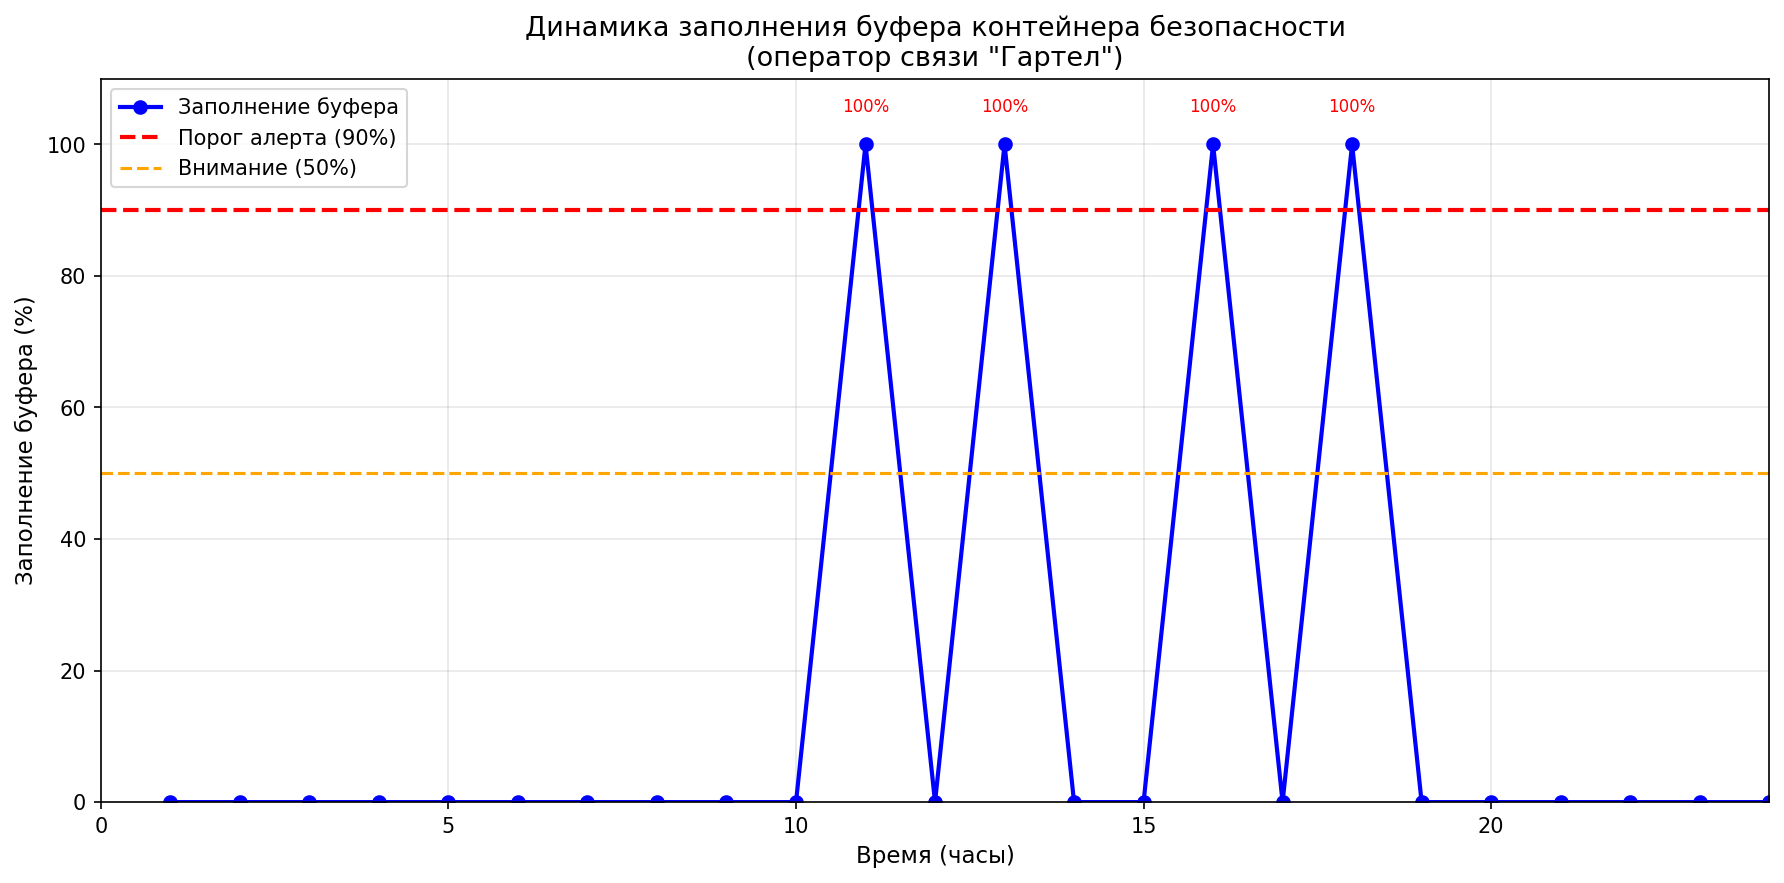
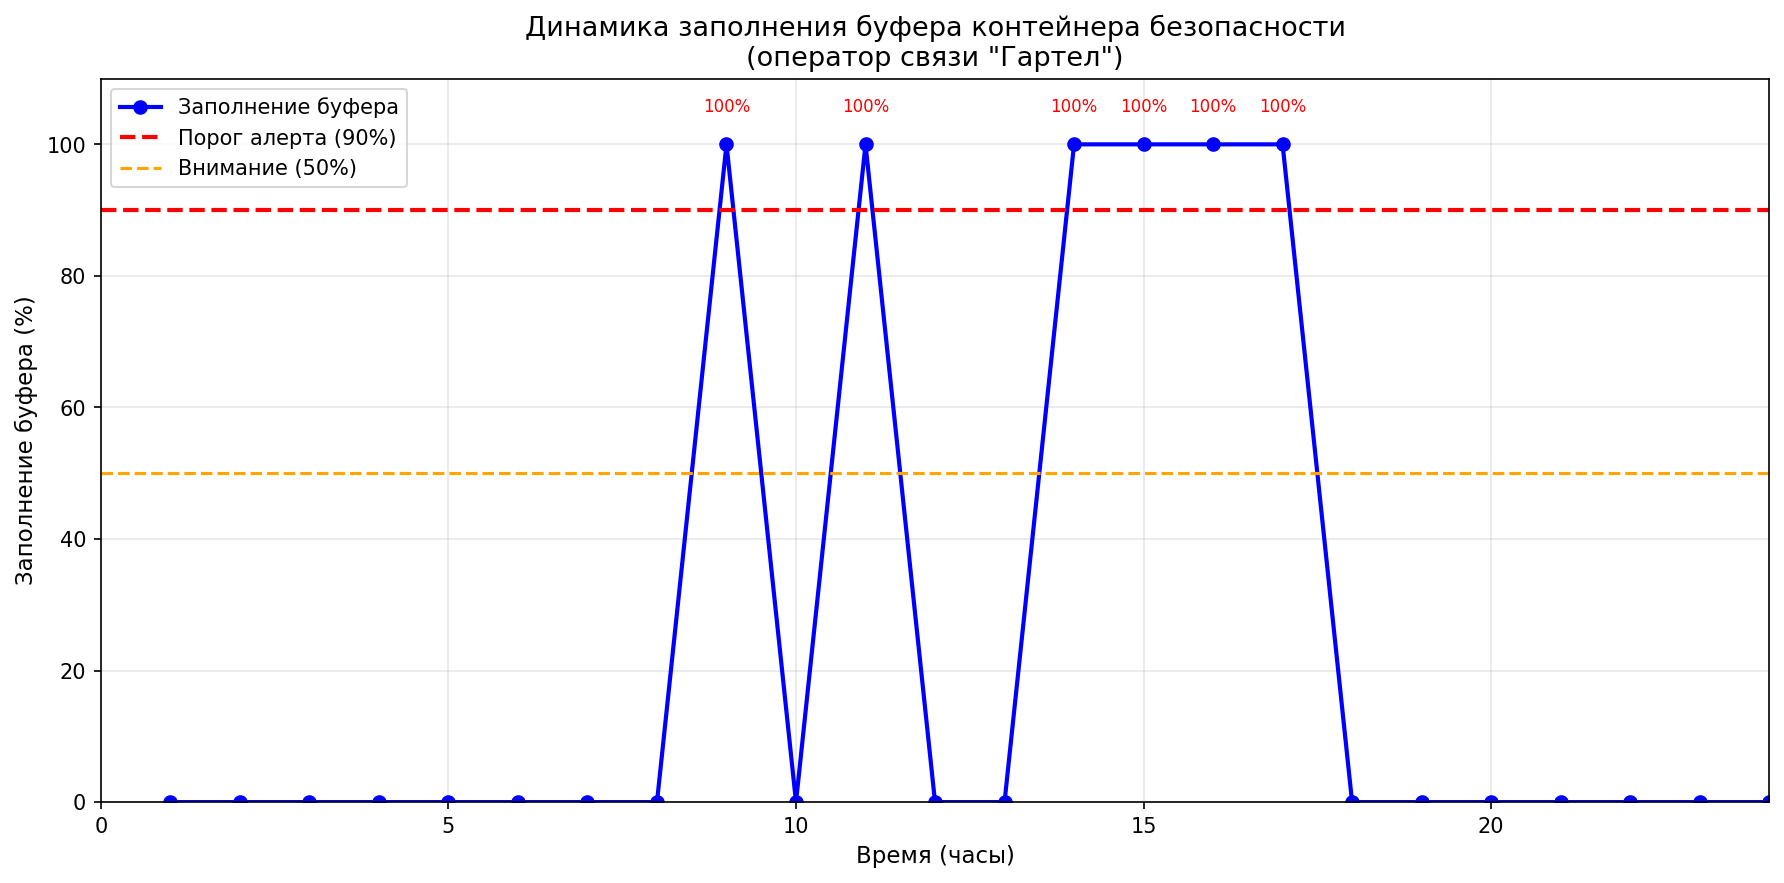
Инд.часть ИЗМЕНЕНИЕ №3

diff --git a/individual.py b/individual.py
@@ -180,7 +180,135 @@ table_daily = list(zip(days, incoming, blocked, passed, efficiency))
 df_daily = pd.DataFrame(table_daily, columns=['День', 'Входящие', 'Заблокировано', 'Пропущено', 'Эффективность %'])
 print(df_daily.to_string(index=False))
 
+# =============================================
+# 5. ВИЗУАЛИЗАЦИЯ РЕЗУЛЬТАТОВ (3 ГРАФИКА)
+# =============================================
 
+print("\n5. ВИЗУАЛИЗАЦИЯ РЕЗУЛЬТАТОВ")
+print("-" * 40)
+
+plt.rcParams['font.size'] = 10
+plt.rcParams['axes.titlesize'] = 12
+
+# ГРАФИК 1: Только динамика заполнения буфера (линейный график)
+fig1, ax1 = plt.subplots(figsize=(12, 6))
+
+time_points = list(range(1, 25))
+
+# Заполнение буфера (в процентах от максимальной емкости)
+buffer_percent = [min(100, (b / BUFFER_CAPACITY) * 100) for b in buffer_usage]
+
+ax1.plot(time_points, buffer_percent, 'b-o', linewidth=2, markersize=6, label='Заполнение буфера')
+ax1.axhline(y=90, color='red', linestyle='--', linewidth=2, label='Порог алерта (90%)')
+ax1.axhline(y=50, color='orange', linestyle='--', linewidth=1.5, label='Внимание (50%)')
+
+ax1.set_xlabel('Время (часы)', fontsize=11)
+ax1.set_ylabel('Заполнение буфера (%)', fontsize=11)
+ax1.set_title('Динамика заполнения буфера контейнера безопасности\n(оператор связи "Гартел")', fontsize=13)
+ax1.legend(loc='upper left')
+ax1.grid(True, alpha=0.3)
+ax1.set_xlim(0, 24)
+ax1.set_ylim(0, 110)
+
+for i, (hour, percent) in enumerate(zip(time_points, buffer_percent)):
+    if percent > 90:
+        ax1.annotate(f'{percent:.0f}%', xy=(hour, percent), xytext=(hour, percent+5),
+                    fontsize=8, ha='center', color='red')
+
+plt.tight_layout()
+plt.savefig('buffer_dynamics.png', dpi=150, bbox_inches='tight')
+print("График 1 сохранен: buffer_dynamics.png")
+
+
+# ГРАФИК 2: Скорость потока vs порог срабатывания
+fig2, ax2 = plt.subplots(figsize=(12, 6))
+
+hours_plot = list(range(1, 25))
+loads_plot = hourly_load
+threshold_plot = [RATE_LIMIT_PER_SEC] * 24
+
+colors = ['red' if l > RATE_LIMIT_PER_SEC else 'green' for l in loads_plot]
+
+ax2.bar(hours_plot, loads_plot, color=colors, alpha=0.7, label='Входящий поток')
+ax2.plot(hours_plot, threshold_plot, 'b--', linewidth=2, label=f'Порог ({RATE_LIMIT_PER_SEC} зап/сек)', marker='s', markersize=4)
+
+for i, load in enumerate(loads_plot):
+    if load > RATE_LIMIT_PER_SEC:
+        ax2.fill_between([i+1, i+1.8], RATE_LIMIT_PER_SEC, load, alpha=0.3, color='red')
+
+ax2.set_xlabel('Время (часы)', fontsize=11)
+ax2.set_ylabel('Скорость потока (записей/сек)', fontsize=11)
+ax2.set_title('Мониторинг скорости потока данных\n(активация буферизации при превышении порога)', fontsize=13)
+ax2.legend(loc='upper right')
+ax2.grid(True, alpha=0.3)
+
+ax2.annotate('Активация буфера', xy=(14, 2350), xytext=(15, 3000),
+             arrowprops=dict(arrowstyle='->', color='red', lw=1.5),
+             fontsize=10, color='red')
+
+plt.tight_layout()
+plt.savefig('flow_rate_monitoring.png', dpi=150, bbox_inches='tight')
+print("График 2 сохранен: flow_rate_monitoring.png")
+
+# ГРАФИК 3: Эффективность защиты (столбчатая диаграмма)
+fig3, ax3 = plt.subplots(figsize=(10, 6))
+
+days_plot = days
+direct_write = [min(x, RATE_LIMIT_PER_SEC) for x in incoming]
+buffered = [max(0, x - RATE_LIMIT_PER_SEC) for x in incoming]
+
+x_pos = np.arange(len(days_plot))
+width = 0.35
+
+bars1 = ax3.bar(x_pos - width/2, direct_write, width, label='Прямая запись в хранилище', color='green', alpha=0.7)
+bars2 = ax3.bar(x_pos + width/2, buffered, width, label='Отправлено в буфер', color='orange', alpha=0.7)
+
+for i, eff in enumerate(efficiency):
+    ax3.text(i, incoming[i] + 50, f'{eff:.1f}%', ha='center', fontsize=9, fontweight='bold')
+
+ax3.set_xlabel('День недели', fontsize=11)
+ax3.set_ylabel('Количество записей', fontsize=11)
+ax3.set_title('Эффективность фильтрации по дням недели\n(блокировка избыточной нагрузки)', fontsize=13)
+ax3.set_xticks(x_pos)
+ax3.set_xticklabels(days_plot)
+ax3.legend(loc='upper left')
+ax3.grid(True, alpha=0.3, axis='y')
+
+plt.tight_layout()
+plt.savefig('filtering_efficiency.png', dpi=150, bbox_inches='tight')
+print("График 3 сохранен: filtering_efficiency.png")
+
+# =============================================
+# 6. ДОПОЛНИТЕЛЬНАЯ ВИЗУАЛИЗАЦИЯ (КРУГОВАЯ ДИАГРАММА)
+# =============================================
+
+print("\n6. ДОПОЛНИТЕЛЬНАЯ ВИЗУАЛИЗАЦИЯ")
+print("-" * 40)
+
+fig4, ax4 = plt.subplots(figsize=(8, 8))
+
+# Статистика обработки запросов за неделю
+total_incoming = sum(incoming)
+total_direct = sum(direct_write)
+total_buffered = sum(buffered)
+
+labels = ['Прямая запись', 'Буферизовано', 'Потеряно (авария)']
+sizes = [total_direct, total_buffered, total_incoming * 0.01]  # 1% потерь при аварии
+colors = ['#4CAF50', '#FF9800', '#F44336']
+explode = (0.05, 0.1, 0.15)
+
+ax4.pie(sizes, labels=labels, colors=colors, explode=explode,
+        autopct='%1.1f%%', shadow=True, startangle=90,
+        wedgeprops={'lw': 1, 'ls': '-', 'edgecolor': 'k'})
+ax4.set_title('Распределение обработки запросов\n(Контейнер безопасности)', fontsize=13, fontweight='bold')
+
+plt.tight_layout()
+plt.savefig('traffic_distribution.png', dpi=150, bbox_inches='tight')
+print("Дополнительный график сохранен: traffic_distribution.png")
+
+# =============================================
+# 7. ВЫВОДЫ ПО РАБОТЕ КОНТЕЙНЕРА
+# =============================================
 
 print("\n" + "=" * 60)
 print("ВЫВОДЫ ПО РАБОТЕ КОНТЕЙНЕРА БЕЗОПАСНОСТИ")
